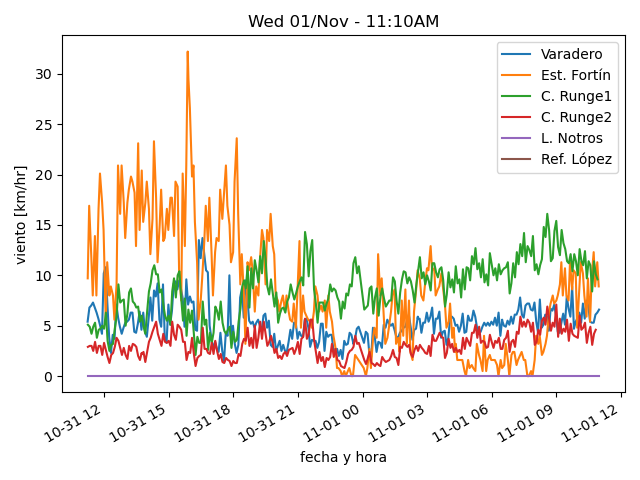
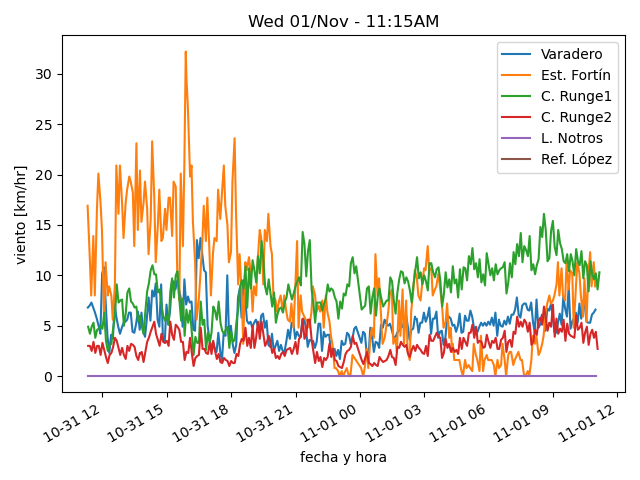
actualiza datos

diff --git a/estaciones/estacion4.html b/estaciones/estacion4.html
@@ -18,37 +18,37 @@
     </tr>
     <tr>
      <td class="stats_data">
-      10:49AM
+      11:04AM
      </td>
     </tr>
     <tr>
      <td class="stats_data">
-      3.2⁰C
+      3.3⁰C
      </td>
     </tr>
     <tr>
      <td class="stats_data">
-      2.0⁰C
+      2.2⁰C
      </td>
     </tr>
     <tr>
      <td class="stats_data">
-      91.5%
+      92.8%
      </td>
     </tr>
     <tr>
      <td class="stats_data">
-      1021.74hPa
+      1021.84hPa
      </td>
     </tr>
     <tr>
      <td class="stats_data">
-      2.8/4.6 km/hr S
+      1.4/2.7 km/hr SE
      </td>
     </tr>
     <tr>
      <td class="stats_data">
-      2.21 / 1.19 mm
+      2.21 / 0.0 mm
      </td>
     </tr>
     <tr>
@@ -58,7 +58,7 @@
     </tr>
     <tr>
      <td class="stats_data">
-      238.1 W/m²
+      295.6 W/m²
      </td>
     </tr>
    </tbody>

diff --git a/estaciones/estacion3.html b/estaciones/estacion3.html
@@ -18,22 +18,22 @@
     </tr>
     <tr>
      <td class="stats_data">
-      10:54AM
+      11:09AM
      </td>
     </tr>
     <tr>
      <td class="stats_data">
-      2.8⁰C
+      3.0⁰C
      </td>
     </tr>
     <tr>
      <td class="stats_data">
-      2.2⁰C
+      2.5⁰C
      </td>
     </tr>
     <tr>
      <td class="stats_data">
-      95.0%
+      95.9%
      </td>
     </tr>
     <tr>
@@ -43,22 +43,22 @@
     </tr>
     <tr>
      <td class="stats_data">
-      7.1/9.6 km/hr SE
+      6.2/10.3 km/hr SE
      </td>
     </tr>
     <tr>
      <td class="stats_data">
-      2.11 / 1.8 mm
+      2.11 / 0.0 mm
      </td>
     </tr>
     <tr>
      <td class="stats_data">
-      2.0
+      3.0
      </td>
     </tr>
     <tr>
      <td class="stats_data">
-      242.0 W/m²
+      299.7 W/m²
      </td>
     </tr>
    </tbody>
